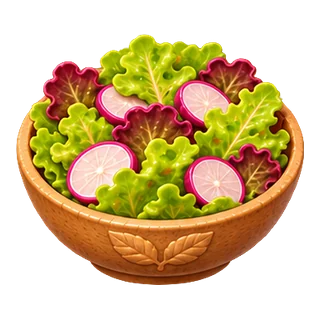
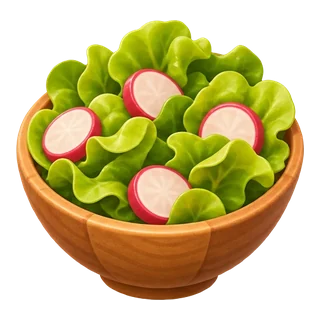
Nouvelles images des 11 recettes de base : toutes les recettes sont illustrées (0.26.4)
Claude-Session: https://claude.ai/code/session_018D5HKJWKwN88xpAGuhHMQJ

diff --git a/index.html b/index.html
@@ -6,13 +6,13 @@
   <title>Potager idle</title>
   <meta name="description" content="Un petit jeu idle de potager : plante, arrose, récolte, cuisine et découvre des variétés hybrides.">
   <meta name="theme-color" content="#f2f9e6" id="theme-color">
-  <link rel="manifest" href="manifest.webmanifest?v=122">
+  <link rel="manifest" href="manifest.webmanifest?v=123">
   <link rel="icon" href="icons/favicon-32.png" sizes="32x32" type="image/png">
   <link rel="icon" href="icons/favicon-64.png" sizes="64x64" type="image/png">
   <link rel="icon" href="icons/icon-192.png" sizes="192x192" type="image/png">
   <link rel="preload" href="fonts/nunito-latin.woff2" as="font" type="font/woff2" crossorigin>
   <link rel="preload" href="fonts/fredoka-latin.woff2" as="font" type="font/woff2" crossorigin>
-  <link rel="stylesheet" href="css/style.css?v=122">
+  <link rel="stylesheet" href="css/style.css?v=123">
 </head>
 <body>
 <div id="app">
@@ -41,10 +41,10 @@
 <div id="fx"></div>
 <div id="toasts" aria-live="polite"></div>
 
-<script src="js/data.js?v=122"></script>
-<script src="assets/img/manifest.js?v=122"></script>
-<script src="js/art.js?v=122"></script>
-<script src="js/achievements.js?v=122"></script>
-<script src="js/game.js?v=122"></script>
+<script src="js/data.js?v=123"></script>
+<script src="assets/img/manifest.js?v=123"></script>
+<script src="js/art.js?v=123"></script>
+<script src="js/achievements.js?v=123"></script>
+<script src="js/game.js?v=123"></script>
 </body>
 </html>

diff --git a/assets/img/manifest.js b/assets/img/manifest.js
@@ -1,2 +1,2 @@
 /* Généré par tools/process_images.py : liste des images disponibles. */
-window.IMG = {"plants": ["amethyste", "azur", "basilic", "ble", "carotte", "coeur", "fraise", "fraisille", "laitue", "lanterne", "lavande", "lilas", "lune", "myrtille", "patate", "poivree", "potiron", "radis", "tomate", "tournesol"], "dishes": ["gateau", "gnocchis", "lanterne_soupe", "muffins", "pain", "pain_azur", "puree_amethyste", "salade", "salade_pourpre", "sauce", "sirop_lilas", "smoothie", "soupe", "tarte", "tisane", "veloute", "veloute_lune"], "ui": []};
+window.IMG = {"plants": ["amethyste", "azur", "basilic", "ble", "carotte", "coeur", "fraise", "fraisille", "laitue", "lanterne", "lavande", "lilas", "lune", "myrtille", "patate", "poivree", "potiron", "radis", "tomate", "tournesol"], "dishes": ["biscuits", "gateau", "gnocchis", "graines", "lanterne_soupe", "muffins", "pain", "pain_azur", "pizza", "puree", "puree_amethyste", "salade", "salade_pourpre", "sauce", "sirop_lilas", "smoothie", "soupe", "tarte", "tisane", "veloute", "veloute_lune"], "ui": []};

diff --git a/js/game.js b/js/game.js
@@ -1,7 +1,7 @@
 "use strict";
 /* Numéro de version affiché dans les Paramètres.
    À chaque mise à jour : changer APP_VERSION, le ?v= dans index.html et VERSION dans sw.js. */
-const APP_VERSION = "0.26.3";
+const APP_VERSION = "0.26.4";
 /* ---------------- Helpers ---------------- */
 const $ = s => document.querySelector(s);
 const now = () => Date.now();

diff --git a/sw.js b/sw.js
@@ -1,6 +1,6 @@
 /* Service worker de Potager idle : rend le jeu jouable hors-ligne.
    À chaque mise à jour du jeu, augmente VERSION pour que les téléphones téléchargent la nouvelle version. */
-const VERSION = "potager-v122";
+const VERSION = "potager-v123";
 const FILES = [
   "./",
   "index.html",
